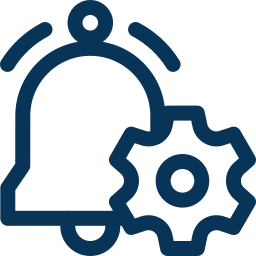
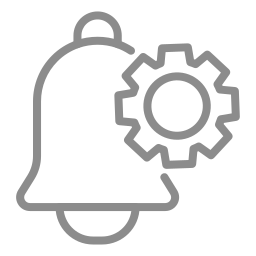
TA-210-Design - B2B - Profile page-Done

diff --git a/lib/modules/b2b/dashboard/dashboard_modules/profile/bloc/profile_bloc.dart b/lib/modules/b2b/dashboard/dashboard_modules/profile/bloc/profile_bloc.dart
@@ -25,6 +25,8 @@ class ProfileBloc extends Bloc<ProfileEvent, ProfileState> {
 
   List<ProfileListModel> profileChildrenList = [];
 
+  List<ProfileListModel> profileAdminList = [];
+
   bool isExpandedList = false;
 
   ProfileBloc() : super(ProfileInitialState()) {
@@ -54,6 +56,24 @@ class ProfileBloc extends Bloc<ProfileEvent, ProfileState> {
           image: AppImages.icInquiries,
           title: APPStrings.support.tr,
           subTitle: APPStrings.makeInquiryFaqContactUs.tr,
+          trailingIcon: AppImages.icArrowRight,
+          onTap: () {}),
+      ProfileListModel(
+          image: AppImages.icWatchlist,
+          title: APPStrings.watchlist.tr,
+          subTitle: APPStrings.listOfProductsAddedToWatchlist.tr,
+          trailingIcon: AppImages.icArrowRight,
+          onTap: () {}),
+      ProfileListModel(
+          image: AppImages.icExhibition,
+          title: APPStrings.exhibition.tr,
+          subTitle: APPStrings.listOfExhibitionsOfKGK.tr,
+          trailingIcon: AppImages.icArrowRight,
+          onTap: () {}),
+      ProfileListModel(
+          image: AppImages.icActivityLog,
+          title: APPStrings.activityLog.tr,
+          subTitle: APPStrings.getLogOnTheAccount.tr,
           trailingIcon: AppImages.icArrowRight,
           onTap: () {}),
       ProfileListModel(
@@ -105,6 +125,39 @@ class ProfileBloc extends Bloc<ProfileEvent, ProfileState> {
             event.context.pushNamed(AppRoutes.notificationSettingsPage);
           }),
     ];
+    profileAdminList = [
+      ProfileListModel(
+          image: AppImages.icMyOrders,
+          title: APPStrings.orderManagement.tr,
+          subTitle: APPStrings.listOfAllTheOrdersYouPlaced.tr,
+          trailingIcon: AppImages.icArrowRight,
+          onTap: () {}),
+      ProfileListModel(
+          image: AppImages.icProfileCalendar,
+          title: APPStrings.calendar.tr,
+          subTitle: APPStrings.meetingsTasksAllInOnePlace.tr,
+          trailingIcon: AppImages.icArrowRight,
+          onTap: () {}),
+      ProfileListModel(
+          image: AppImages.icMessages,
+          title: APPStrings.messages.tr,
+          subTitle: APPStrings.conversationsYouAreHaving.tr,
+          trailingIcon: AppImages.icArrowRight,
+          onTap: () {}),
+      ProfileListModel(
+          image: AppImages.icMasters,
+          title: APPStrings.masters.tr,
+          subTitle: APPStrings.masterDataOfUserAndNewsLetter.tr,
+          trailingIcon: AppImages.icArrowRight,
+          onTap: () {}),
+      ProfileListModel(
+          image: AppImages.icStore,
+          title: APPStrings.dashboard.tr,
+          subTitle: APPStrings.listOfDashboard.tr,
+          trailingIcon: AppImages.icArrowRight,
+          onTap: () {}),
+    ];
+
     profileChildrenList = [
       ProfileListModel(
           image: AppImages.icAboutUs,

diff --git a/lib/widgets/smart_option_tile.dart b/lib/widgets/smart_option_tile.dart
@@ -2,12 +2,18 @@ import 'package:kgk/kgk.dart';
 
 class SmartOptionTile extends StatelessWidget {
   final ProfileListModel profileListModel;
+  final Color? leadingImageColor;
+  final TextStyle? titleStyle;
+  final TextStyle? subTitleStyle;
   final double? imageSize;
 
   const SmartOptionTile({
     super.key,
     required this.profileListModel,
     this.imageSize,
+    this.leadingImageColor,
+    this.titleStyle,
+    this.subTitleStyle,
   });
 
   @override
@@ -29,7 +35,7 @@ class SmartOptionTile extends StatelessWidget {
                 path: profileListModel.image ?? '',
                 height: imageSize ?? 24.w,
                 width: imageSize ?? 24.w,
-                color: style.primaryColor,
+                color: leadingImageColor,
                 fit: BoxFit.contain,
               ),
               SizedBox(
@@ -42,7 +48,7 @@ class SmartOptionTile extends StatelessWidget {
                     if (profileListModel.title.isNotNullNorEmpty)
                       SmartText(
                         profileListModel.title,
-                        style: style.titleStyle,
+                        style: style.titleStyle.merge(titleStyle),
                       ),
                     if (profileListModel.title.isNotNullNorEmpty && profileListModel.subTitle.isNotNullNorEmpty)
                       SizedBox(
@@ -51,7 +57,7 @@ class SmartOptionTile extends StatelessWidget {
                     if (profileListModel.subTitle.isNotNullNorEmpty)
                       SmartText(
                         profileListModel.subTitle,
-                        style: style.subTextStyle,
+                        style: style.subTextStyle.merge(subTitleStyle),
                       ),
                   ],
                 ),

diff --git a/lib/modules/b2b/dashboard/dashboard_modules/profile/view/profile_screen.dart b/lib/modules/b2b/dashboard/dashboard_modules/profile/view/profile_screen.dart
@@ -74,6 +74,13 @@ class ProfileScreen extends StatelessWidget {
               ),
               _buildAccountList(style, bloc),
               Divider(color: style.dividerColor, thickness: 8.h),
+              SmartText(
+                APPStrings.adminSection.tr,
+                style: style.subTitleStyle,
+                optionalPadding: EdgeInsets.only(left: 17.w, top: 16.h),
+              ),
+              _buildAdminList(style, bloc),
+              Divider(color: style.dividerColor, thickness: 8.h),
               _buildExpandList(style, bloc),
               _buildPopupList(context, style, bloc),
             ],
@@ -97,6 +104,24 @@ class ProfileScreen extends StatelessWidget {
           },
           separatorBuilder: (context, index) => const Divider(),
           itemCount: bloc.profileActionList.length);
+    });
+  }
+
+  Widget _buildAdminList(ProfileScreenStyle style, ProfileBloc bloc) {
+    return BlocBuilder<ProfileBloc, ProfileState>(builder: (context, state) {
+      return ListView.separated(
+          physics: const NeverScrollableScrollPhysics(),
+          shrinkWrap: true,
+          padding: EdgeInsets.only(left: 17.w, right: 17.w, bottom: 16.h),
+          primary: false,
+          itemBuilder: (context, index) {
+            return SmartOptionTile(
+              leadingImageColor: style.arrowRightColor,
+              profileListModel: bloc.profileAdminList[index],
+            );
+          },
+          separatorBuilder: (context, index) => const Divider(),
+          itemCount: bloc.profileAdminList.length);
     });
   }
 

diff --git a/lib/app/app_string.dart b/lib/app/app_string.dart
@@ -437,6 +437,22 @@ class APPStrings {
   static const String confirm = 'confirm';
   static const String makeInquiryFaqContactUs = 'make_inquiry_faq_contact_us';
   static const String changeNotificationSettings = 'change_notification_settings';
+  static const String adminSection = 'admin_section';
+  static const String orderManagement = 'order_management';
+  static const String calendar = 'calendar';
+  static const String meetingsTasksAllInOnePlace = 'meetings_tasks_all_in_one_place';
+  static const String messages = 'messages';
+  static const String conversationsYouAreHaving = 'conversations_you_are_having';
+  static const String masters = 'masters';
+  static const String masterDataOfUserAndNewsLetter = 'master_data_of_user_and_newsletter';
+  static const String dashboard = 'dashboard';
+  static const String listOfDashboard = 'list_of_dashboard';
+  static const String watchlist = 'watchlist';
+  static const String listOfProductsAddedToWatchlist = 'list_of_products_added_to_watchlist';
+  static const String exhibition = 'exhibition';
+  static const String listOfExhibitionsOfKGK = 'list_of_exhibitions_of_KGK';
+  static const String activityLog = 'activity_log';
+  static const String getLogOnTheAccount = 'get_log_on_the_account';
 
   //Support screen
   static const String makeAnInquiry = 'make_an_inquiry';

diff --git a/lib/modules/b2b/dashboard/dashboard_modules/support/view/support_screen.dart b/lib/modules/b2b/dashboard/dashboard_modules/support/view/support_screen.dart
@@ -24,7 +24,7 @@ class SupportScreen extends StatelessWidget {
               crossAxisAlignment: CrossAxisAlignment.start,
               children: [
                 SizedBox(height: 8.h),
-                _buildSupportActionSection(supportBloc),
+                _buildSupportActionSection(supportBloc, context),
                 const Divider(),
                 SizedBox(height: 32.h),
                 SmartText(APPStrings.frequentlyAskedQuestion.tr, style: style.frequentlyAskedQuestionStyle),
@@ -36,13 +36,15 @@ class SupportScreen extends StatelessWidget {
         ));
   }
 
-  Widget _buildSupportActionSection(SupportBloc supportBloc) {
+  Widget _buildSupportActionSection(SupportBloc supportBloc, BuildContext context) {
+    final SmartOptionTileStyle smartOptionTileStyle = AppTheme.of(context).smartOptionTileStyle;
     return ListView.separated(
       itemCount: supportBloc.supportActionList.length,
       physics: const NeverScrollableScrollPhysics(),
       shrinkWrap: true,
       itemBuilder: (context, index) {
         return SmartOptionTile(
+          leadingImageColor: smartOptionTileStyle.primaryColor,
           profileListModel: supportBloc.supportActionList[index],
         );
       },

diff --git a/lib/app/app_images.dart b/lib/app/app_images.dart
@@ -125,8 +125,14 @@ class AppImages {
   static const String icNote = 'assets/images/ic_note.svg';
   static const String icContactUs = 'assets/images/ic_contact_us.svg';
   static const String icQrScannerFrame = 'assets/images/ic_qr_scanner_frame.svg';
+  static const String icMasters = 'assets/images/ic_masters.svg';
+  static const String icMessages = 'assets/images/ic_messages.svg';
+  static const String icProfileCalendar = 'assets/images/ic_profile_calendar.svg';
+  static const String icWatchlist = 'assets/images/ic_watchlist.svg';
+  static const String icExhibition = 'assets/images/ic_exhibition.svg';
+  static const String icActivityLog = 'assets/images/ic_activity_log.svg';
+  static const String icNotificationSettings = 'assets/images/ic_notification_settings.png';
 
   //Company Screen
   static const String icGreenCheck = 'assets/images/ic_green_check.svg';
-  static const String icNotificationSettings = 'assets/images/ic_notification_settings.png';
 }
